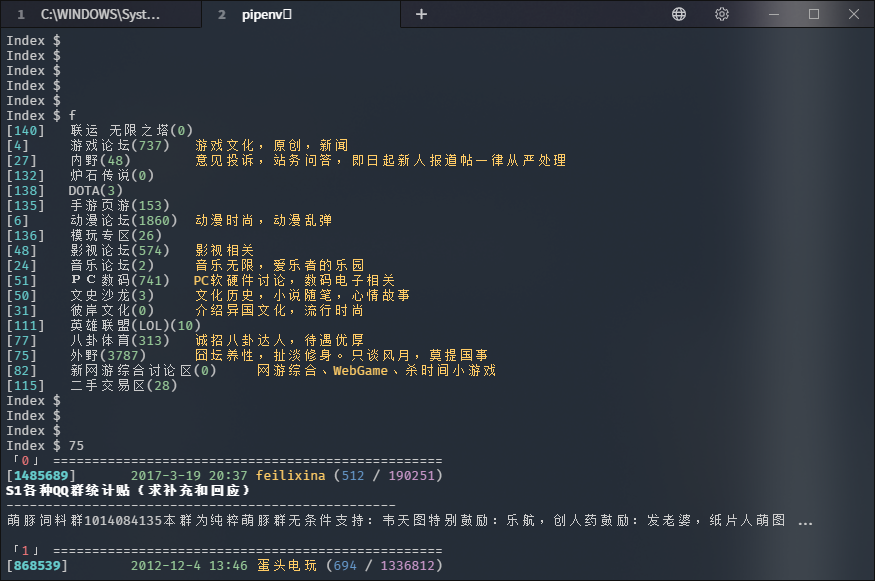
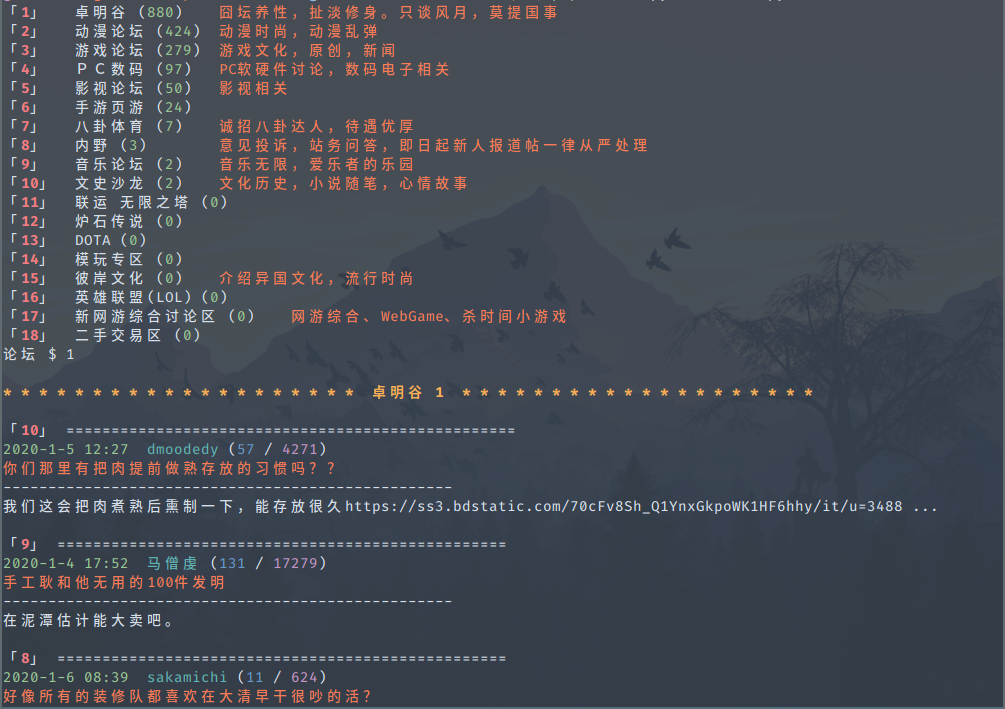
列表倒序显示

diff --git a/thread.py b/thread.py
@@ -64,6 +64,7 @@ class Thread(Stage1stClient):
         self._replies_count = None
         self._message = None
         self.data = {}
+
         self.replies()
 
     @property
@@ -106,16 +107,23 @@ class Thread(Stage1stClient):
         return self.replies_count // PER_PAGE_REPLIES + 1
 
     def replies_list(self):
-        return self.content[REPLY_LIST_KEY]
+        return self.content.get(REPLY_LIST_KEY)
 
     def browser_url(self):
         return BROWSER_URL_THREAD.format(self.id, self.page)
 
     def replies(self):
-        cprint(f"\n{'* ' * 5} {self.subject} {' *' * 5}\n", "yellow", attrs=["bold"])
+        cprint(
+            f"\n{'* ' * 10} {self.subject} {self.page} {' *' * 10}\n",
+            "yellow",
+            attrs=["bold"],
+        )
+
         replies_list = self.replies_list()
-        for i, reply in enumerate(replies_list):
-            self.data[str(i)] = reply["pid"]
+        while replies_list:
+            i = str(len(replies_list))
+            reply = replies_list.pop()
+            self.data[i] = reply["pid"]
             robj = Reply(
                 author=reply["author"],
                 dateline=reply["dateline"],
@@ -129,20 +137,23 @@ class Thread(Stage1stClient):
                 f"「{colored(i, 'red', attrs=['bold'])}」 {colored('=' * 50, 'yellow')}\n{robj}"
             )
 
+        cprint(
+            f"\n{'* ' * 10} {self.subject} {self.page} {' *' * 10}\n",
+            "yellow",
+            attrs=["bold"],
+        )
+
     def next_page(self):
         if self.page < self.max_page:
             self.page += 1
-            self.replies()
 
     def prev_page(self):
         if self.page > 1:
             self.page -= 1
-            self.replies()
 
     def jump_to(self, page):
         if page > 0 and page != self.page:
             self.page = min(page, self.max_page)
-            self.replies()
 
     def new_reply(self):
         print("-- 请输入内容，2次Enter发送 --")

diff --git a/forum.py b/forum.py
@@ -54,6 +54,7 @@ class Forum(Stage1stClient):
         self._threads_count = None
         self._posts = None
         self.data = {}
+
         self.threads()
 
     @property
@@ -81,7 +82,7 @@ class Forum(Stage1stClient):
         return self.threads_count // PER_PAGE_THREADS + 1
 
     def threads_list(self):
-        return self.content.get(THREAD_LIST_KEY, [])
+        return self.content.get(THREAD_LIST_KEY)
 
     def thread_types(self):
         return self.content["threadtypes"]["types"]
@@ -95,9 +96,12 @@ class Forum(Stage1stClient):
             "yellow",
             attrs=["bold"],
         )
+
         threads_list = self.threads_list()
-        for i, thread in enumerate(threads_list):
-            self.data[str(i)] = thread["tid"]
+        while threads_list:
+            i = str(len(threads_list))
+            thread = threads_list.pop()
+            self.data[i] = thread["tid"]
             try:
                 message = thread["reply"][0]["message"]
             except KeyError:
@@ -114,20 +118,23 @@ class Forum(Stage1stClient):
             )
             print(f"「{colored(i, 'red', attrs=['bold'])}」 {'=' * 50}\n{tobj}")
 
+        cprint(
+            f"\n{'* ' * 20} {self.name} {self.page} {' *' * 20}\n",
+            "yellow",
+            attrs=["bold"],
+        )
+
     def next_page(self):
         if self.page < self.max_page:
             self.page += 1
-            self.threads()
 
     def prev_page(self):
         if self.page > 1:
             self.page -= 1
-            self.threads()
 
     def jump_to(self, page):
         if page > 0 and page != self.page:
             self.page = min(page, self.max_page)
-            self.threads()
 
     def new_thread(self):
         thread_types = self.thread_types()

diff --git a/config.py b/config.py
@@ -36,9 +36,14 @@ URL_REPLY_LIST = (
 URL_REPLY = BASE_API_URL + "index.php?module=sendreply&replysubmit=yes&tid={}"
 URL_FAVOURITE = BASE_API_URL + "index.php?module=favthread&favoritesubmit=yes"
 URL_SEARCH = BASE_URL + "search.php?searchsubmit=yes&mod={}"
-
-BROWSER_URL_FORUM = "https://bbs.saraba1st.com/2b/forum-{}-{}.html"
-BROWSER_URL_THREAD = "https://bbs.saraba1st.com/2b/thread-{}-{}-1.html"
+URL_MY_THREADS = (
+    BASE_URL + "home.php?mod=space&do=thread&from=space&type=thread&uid={}&page={}"
+)
+URL_MY_REPLIES = (
+    BASE_URL + "home.php?mod=space&do=thread&from=space&type=reply&uid={}&page={}"
+)
+BROWSER_URL_FORUM = BASE_URL + "forum-{}-{}.html"
+BROWSER_URL_THREAD = BASE_URL + "thread-{}-{}-1.html"
 
 FORUM_LIST_KEY = "forumlist"
 FORUM_KEY = "forum"

diff --git a/stage1st.py b/stage1st.py
@@ -19,6 +19,8 @@ class Stage1stClient:
         self._id = sid
         self._page = page
         self._content = None
+        self._uid = None
+        self._formhash = None
 
         self._session = HTMLSession()
         self._session.headers.update(HEADERS)
@@ -86,8 +88,16 @@ class Stage1stClient:
         return self._content
 
     @property
+    def uid(self):
+        if self._uid is None:
+            self._uid = self.content["member_uid"]
+        return self._uid
+
+    @property
     def formhash(self):
-        return self.content["formhash"]
+        if self._formhash is None:
+            self._formhash = self.content["formhash"]
+        return self._formhash
 
     def _get_content(self):
         url = self._build_url()

diff --git a/index.py b/index.py
@@ -23,7 +23,7 @@ class Index(Stage1stClient):
 
     def forums(self):
         forums_list = sorted(self.forums_list(), key=lambda x: -int(x["todayposts"]))
-        for i, forum in enumerate(forums_list):
+        for i, forum in enumerate(forums_list, start=1):
             self.data[str(i)] = forum["fid"]
             fobj = Forum(
                 forum["fid"],
